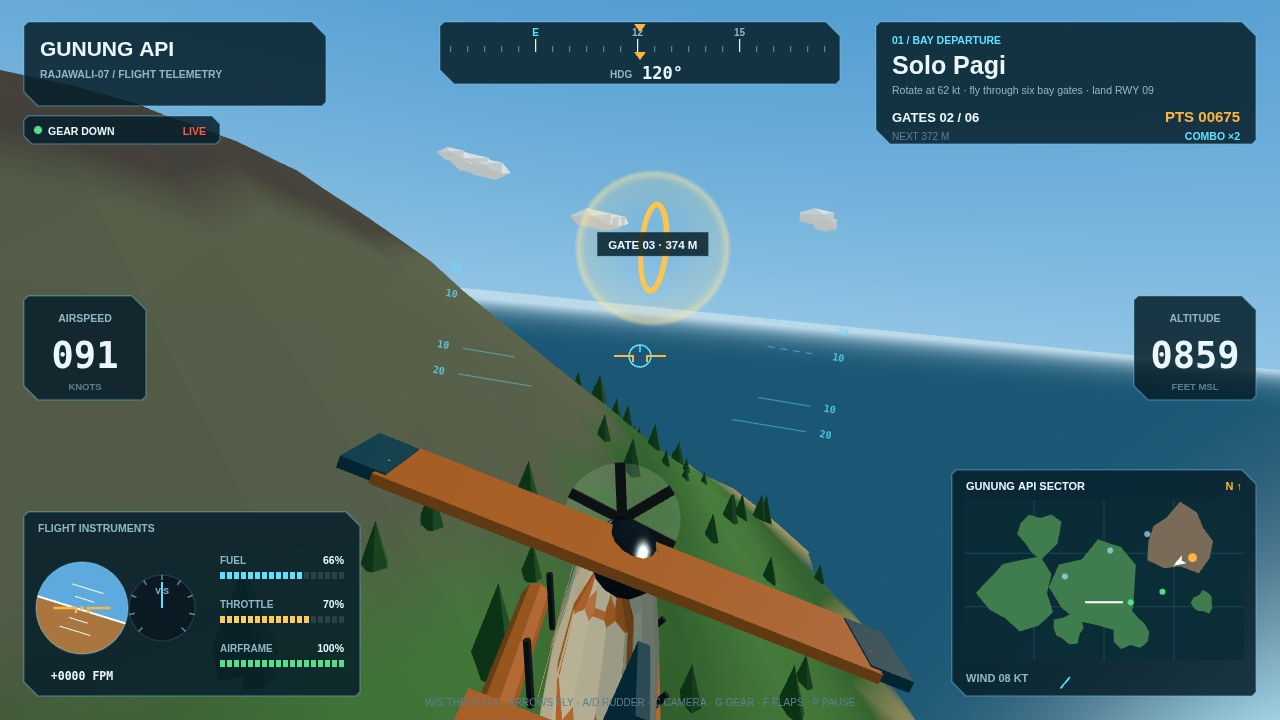
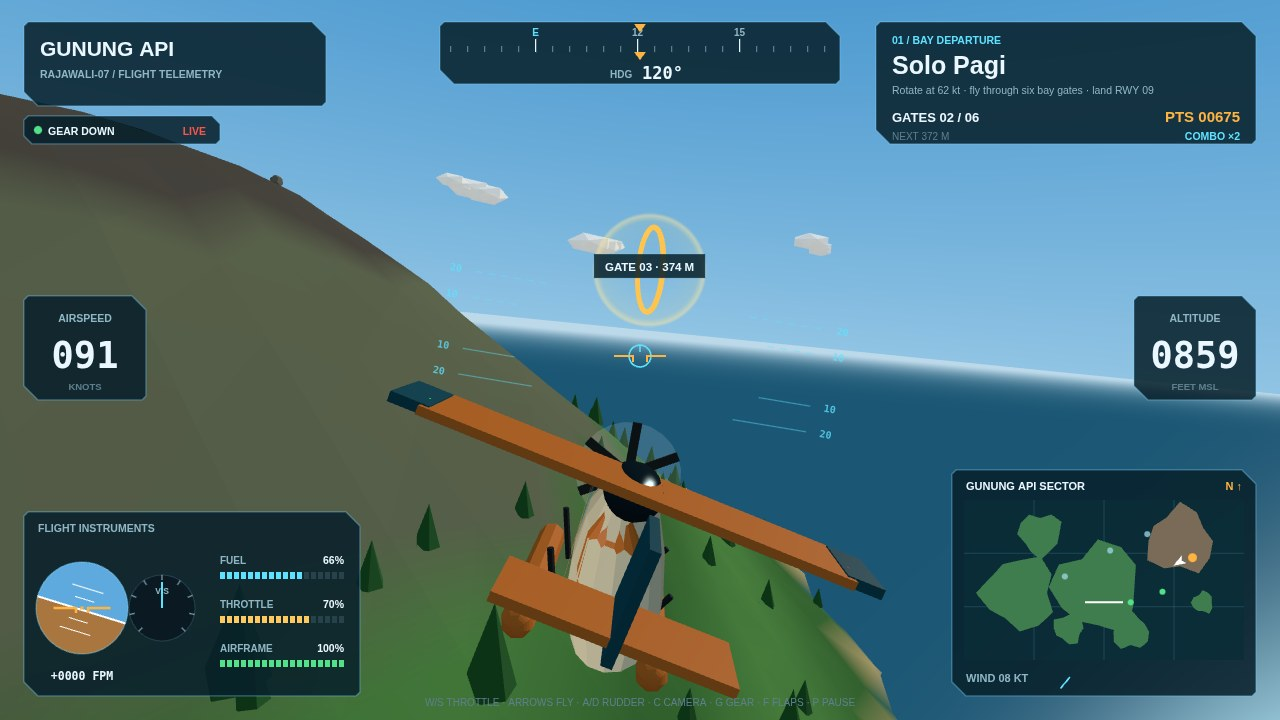
v6: hangar hero staging (plane fills the frame), tighter gate halo, boulders on the slopes, grander results camera

diff --git a/game/src/world3d.js b/game/src/world3d.js
@@ -258,6 +258,25 @@ export function buildWorld(scene, lightingName) {
   parked2.group.position.set(120, RUNWAY.y + 2.0, 845); parked2.group.rotation.y = 0.65;
   scene.add(parked2.group);
 
+  // Rocks — instanced boulders scattered on the slopes for surface texture.
+  const rocks = new THREE.InstancedMesh(new THREE.DodecahedronGeometry(6),
+    new THREE.MeshStandardMaterial({ color: 0x8a8578, flatShading: true, roughness: 1 }), 260);
+  let ri = 0, rguard = 0;
+  while (ri < 260 && rguard++ < 4000) {
+    const x = (rnd() - 0.5) * 7200, z = (rnd() - 0.5) * 7200;
+    const h = heightAt(x, z);
+    if (h < 25 || h > 380) continue;
+    if (Math.abs(z - RUNWAY.cz) < 185 && Math.abs(x) < 2500) continue;
+    const s = 0.5 + rnd() * 1.3;
+    dummy.position.set(x, h + 2 * s, z);
+    dummy.scale.set(s, s * (0.7 + rnd() * 0.5), s);
+    dummy.rotation.set(rnd() * 3, rnd() * 3, rnd() * 3);
+    dummy.updateMatrix();
+    rocks.setMatrixAt(ri++, dummy.matrix);
+  }
+  rocks.count = ri;
+  scene.add(rocks);
+
   // Volcano lava + smoke.
   const volc = ISLANDS[1];
   const lava = new THREE.Mesh(new THREE.CircleGeometry(120, 24),
@@ -416,7 +435,7 @@ export function buildGates(scene, world, sortie) {
     const g = c.getContext('2d');
     const gr = g.createRadialGradient(64, 64, 20, 64, 64, 64);
     gr.addColorStop(0, 'rgba(255,190,60,0)');
-    gr.addColorStop(0.78, 'rgba(255,190,60,0.16)');
+    gr.addColorStop(0.78, 'rgba(255,190,60,0.10)');
     gr.addColorStop(0.92, 'rgba(255,205,90,0.5)');
     gr.addColorStop(1, 'rgba(255,205,90,0)');
     g.fillStyle = gr; g.fillRect(0, 0, 128, 128);
@@ -428,7 +447,7 @@ export function buildGates(scene, world, sortie) {
       new THREE.MeshBasicMaterial({ color: 0xffc44d }));
     grp.add(ring);
     const glow = new THREE.Sprite(new THREE.SpriteMaterial({ map: glowTex, transparent: true, depthWrite: false }));
-    glow.scale.set(100, 100, 1);
+    glow.scale.set(74, 74, 1);
     grp.add(glow);
     // Face the ring along the direction to the next point (or the runway).
     const nxt = sortie.gates[i + 1] || { x: RUNWAY.cx - Math.cos(sortie.landHdg) * 500, y: 60, z: RUNWAY.cz - Math.sin(sortie.landHdg) * 0 + 0 };

diff --git a/game/src/main.js b/game/src/main.js
@@ -307,8 +307,8 @@ function updateCamera(dt) {
     const cx = mode === 'menu' ? -330 : P ? P.x : -330;
     const cz = RUNWAY.cz, cy = RUNWAY.y + 2.3;
     const ang = SHOT === 'complete' ? 0.9 : SHOT === 'title' ? -0.15 : SHOT ? -0.5 : performance.now() * 0.00004;
-    const r = mode === 'menu' ? (SHOT === 'title' ? 52 : 64) : 120;
-    camera.position.set(cx + Math.cos(ang) * r, cy + (mode === 'menu' ? (SHOT === 'title' ? 11 : 13) : 26), cz + Math.sin(ang) * r);
+    const r = mode === 'menu' ? (SHOT === 'title' ? 56 : 64) : (SHOT === 'complete' ? 108 : 120);
+    camera.position.set(cx + Math.cos(ang) * r, cy + (mode === 'menu' ? (SHOT === 'title' ? 12 : 13) : (SHOT === 'complete' ? 32 : 26)), cz + Math.sin(ang) * r);
     camera.lookAt(cx + 10, cy + 5, cz);
     camera.fov = 55; camera.updateProjectionMatrix();
     return;
@@ -410,6 +410,7 @@ function stageShot() {
   if (SHOT === 'title') {
     sel.aircraft = 0; sel.sortie = 0; sel.lighting = 'pagi';
     buildScene(); parkPlane();
+    P.x = -310; syncPlaneMesh();
     mode = 'menu';
   } else if (SHOT === 'rings') {
     sel.lighting = 'pagi'; buildScene(); resetFlight();

diff --git a/README.md b/README.md
@@ -47,8 +47,8 @@ and the sector map, so what you see is exactly what you can hit.
 Static files under `game/`, rendered with three.js (vendored) over a
 hand-built low-poly world: one height field generates the island
 terrain mesh with vertex-coloured beaches, jungle, rock and ash,
-fifteen hundred instanced trees, four villages, sailboats on the
-water, parked aircraft by the hangar, a smoking volcano, a lighthouse
+fifteen hundred instanced trees, scattered boulders, four villages,
+sailboats on the water, parked aircraft by the hangar, a smoking volcano, a lighthouse
 with a rotating beam, and a full airfield — runway numbers, sequenced
 approach lights, PAPI units that answer your glide in real time.
 Aircraft are modelled from primitives with canvas-painted liveries,
